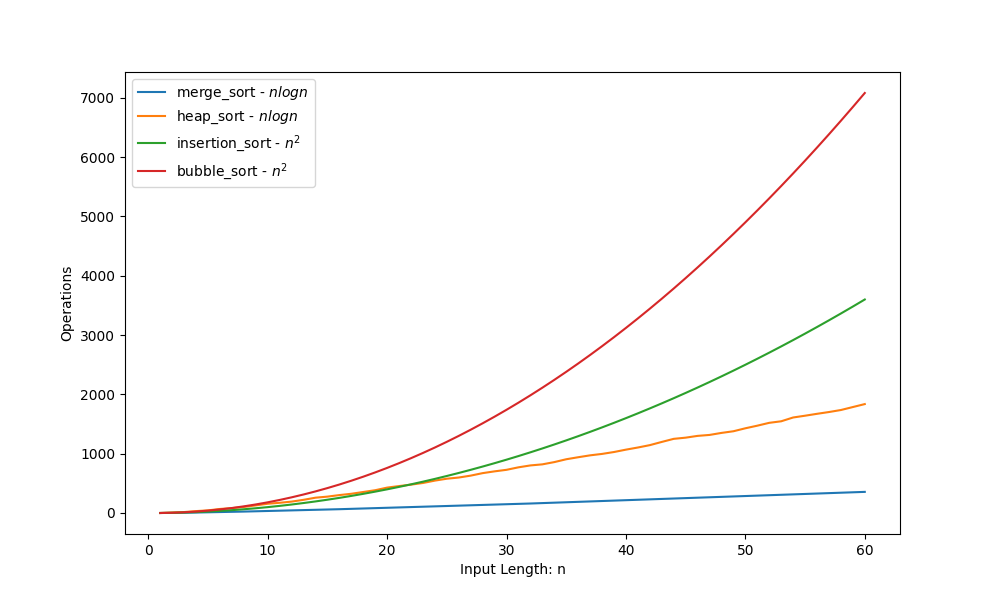
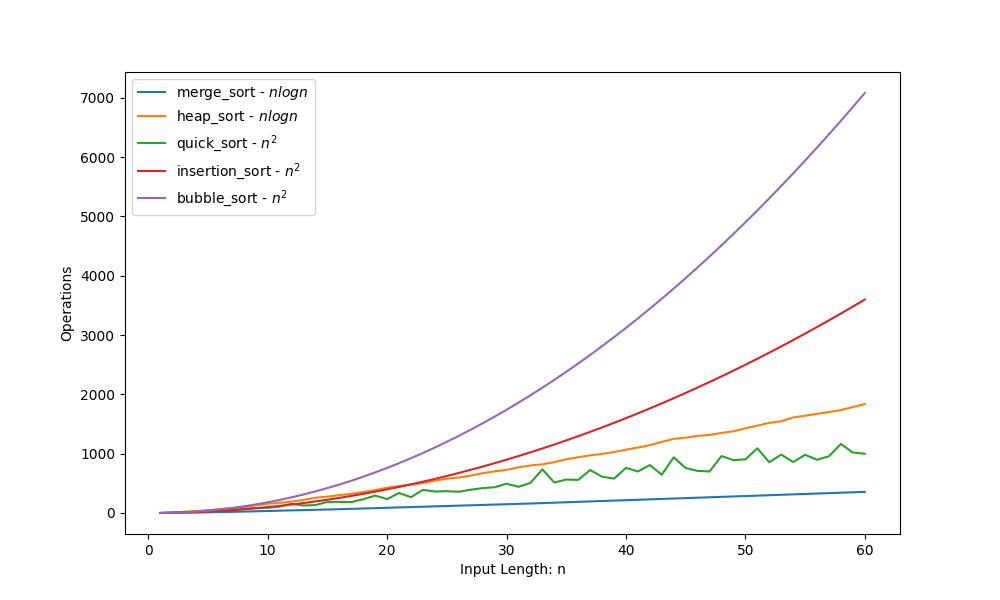
quick_sort

diff --git a/Sorting/algorithms/quick_sort.py b/Sorting/algorithms/quick_sort.py
@@ -1,0 +1,33 @@
+import random
+
+
+def partition(A: list[int], p: int, r: int) -> int:
+    i = p - 1
+    for j in range(p, r):
+        if A[j] <= A[r]:
+            i += 1
+            temp = A[i]
+            A[i] = A[j]
+            A[j] = temp
+
+    temp = A[i+1]
+    A[i+1] = A[r]
+    A[r] = temp
+    
+    return i + 1
+
+def random_partition(A: list[int], p: int, r: int) -> int:
+    i = random.randint(p, r)
+    temp = A[r]
+    A[r] = A[i]
+    A[i] = temp
+
+    return partition(A, p, r)
+
+def quick_sort(A: list[int], p: int=0, r: int=float('inf')) -> list[int]:
+    if r == float('inf'): r = len(A)-1
+
+    if p < r:
+        q = random_partition(A, p, r)
+        quick_sort(A, p, q-1)
+        quick_sort(A, q+1, r)

diff --git a/Sorting/README.md b/Sorting/README.md
@@ -1,7 +1,7 @@
 
 
-**Sorting Algorithm Complexity Analisys ( worst case )**
-========================================================
+**Sorting Algorithm Complexity Analisys ( middle case )**
+=========================================================
 
 README writed by: [MARKPLATE](https://github.com/cecinuga/markplate)
 
@@ -16,6 +16,9 @@ README writed by: [MARKPLATE](https://github.com/cecinuga/markplate)
 
 **Heap Sort - $\ O(n log n)$**
 ------------------------------
+
+**Quick Sort - $\ O(n log n)$**
+-------------------------------
 
 ![](./source/sorting_complexity.png)Complexity Analysis
   
